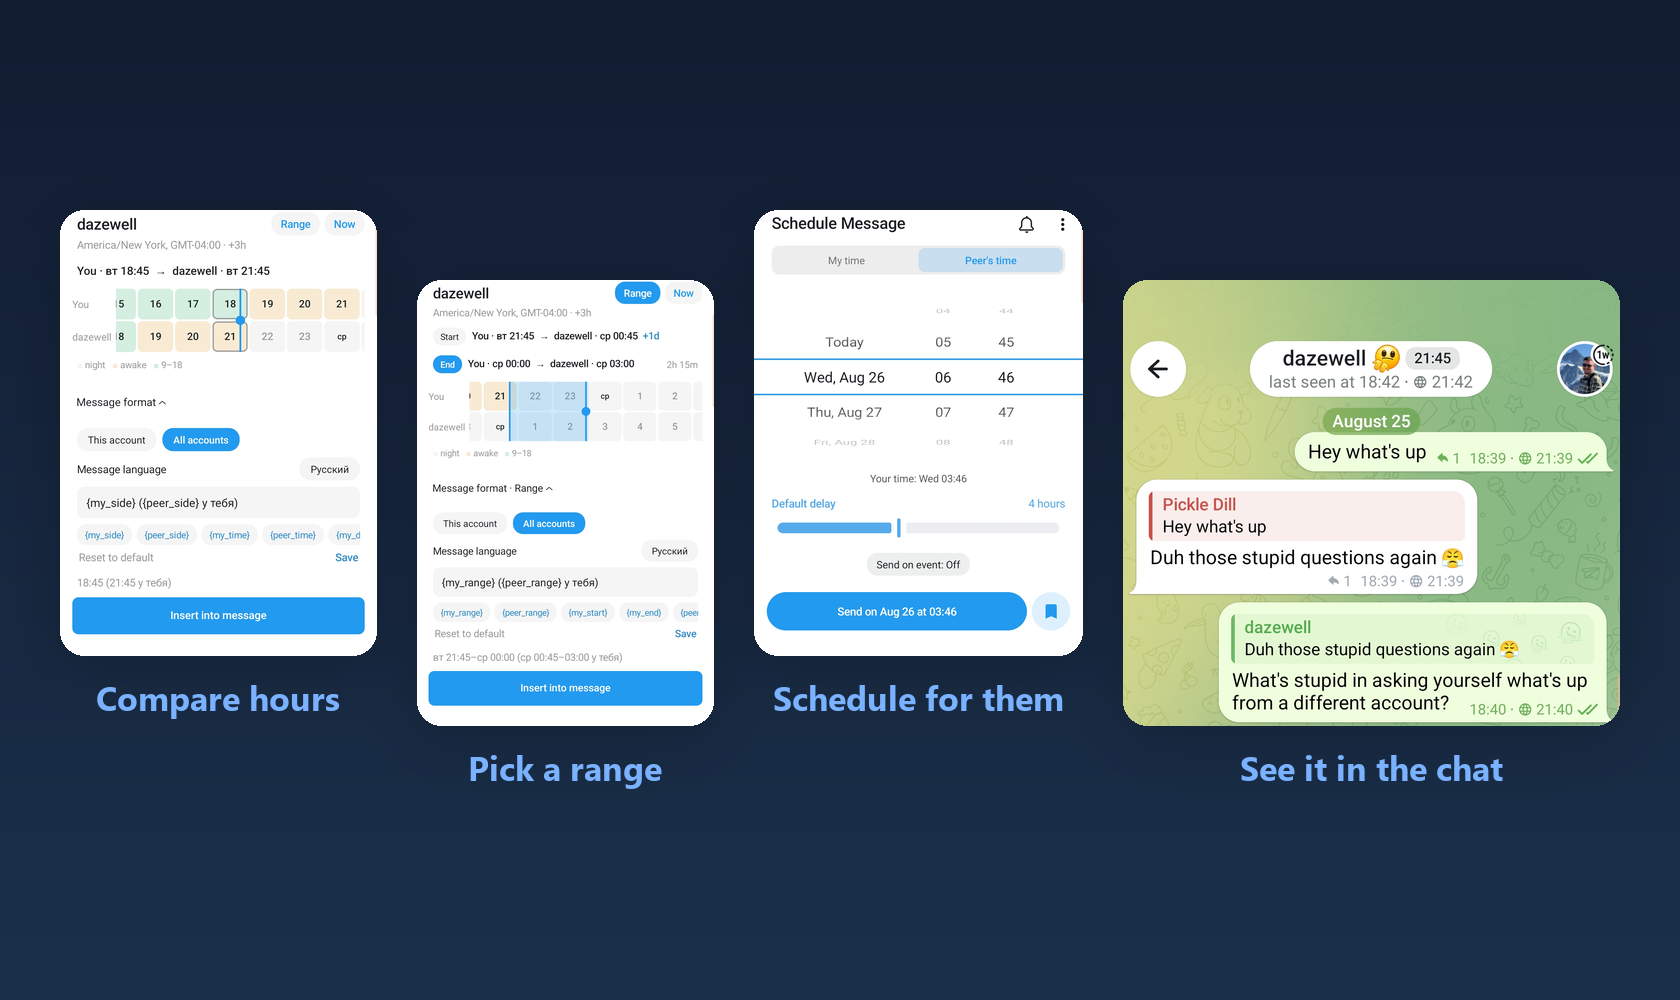
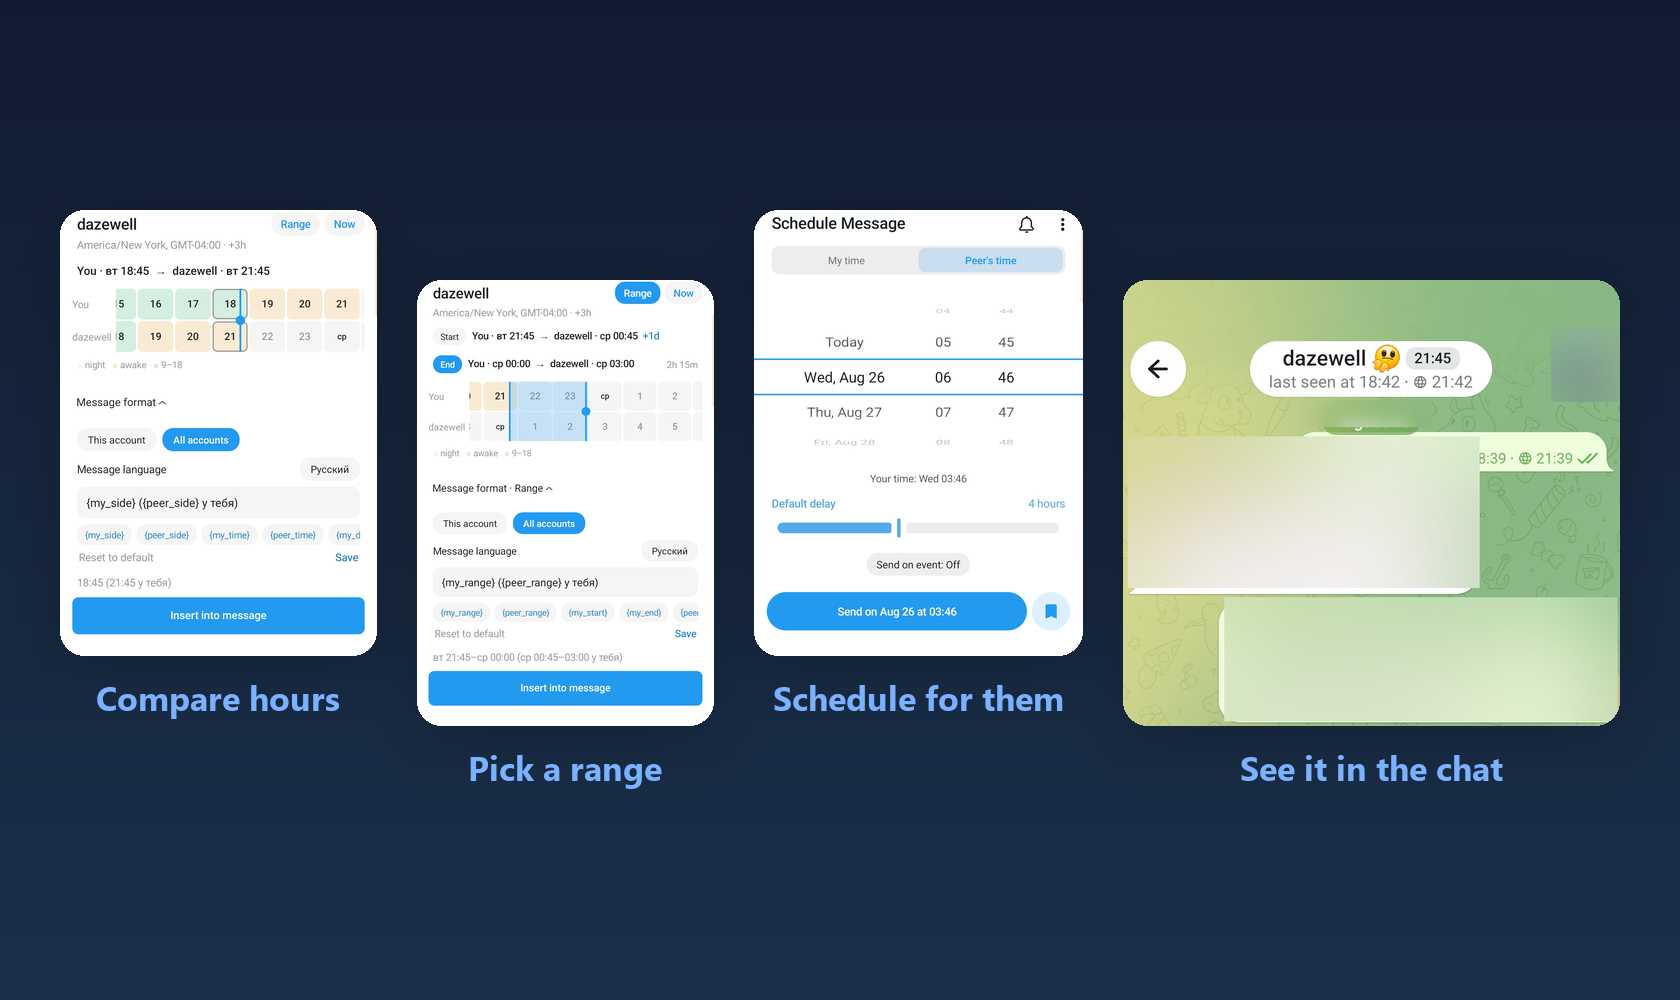
add a blur primitive and redact hero panel 4's real chat content #docs
hero.png's fourth panel cropped straight from the raw screenshot, so it
carried real display names, a real profile photo, and the full text of
real chat messages -- content the original hand-made hero.png had
deliberately blurred by hand. Add lur as a sibling to 
edact in the
manifest: it Gaussian-blurs one or more source-coordinate rectangles
before the crop is taken, radius scaled to the region so a small rect
still comes out genuinely unreadable rather than merely softened.
Factor the shared rect-bounds check used by crop/redact/blur into
_validate_rect() instead of duplicating it a third time.

Applied to panel 4's avatar and all three message bubbles; verified by
zooming into the rendered PNG that no name, message text, or the photo
is legible, while non-sensitive chrome (timestamps, delivery checks)
still reads, matching the original's treatment.

Changed region(s): [[0.65, 0.403, 0.9905, 0.744], [0.9286, 0.341, 0.9595, 0.403]]

diff --git a/Tools/scripts/compose_walls.py b/Tools/scripts/compose_walls.py
@@ -181,6 +181,19 @@ def rounded_mask(size: tuple[int, int], radius: int) -> Image.Image:
     return mask
 
 
+def _validate_rect(
+    rect: list[int], im_width: int, im_height: int, source: str, kind: str
+) -> tuple[int, int, int, int]:
+    left, top, right, bottom = rect
+    if not (0 <= left < right <= im_width and 0 <= top < bottom <= im_height):
+        raise SystemExit(
+            f"panel {source!r} has an invalid {kind} rect {rect} for a "
+            f"{im_width}x{im_height} source image; expected "
+            "0 <= left < right <= width and 0 <= top < bottom <= height"
+        )
+    return left, top, right, bottom
+
+
 def load_panel_image(
     panel: dict, screenshots_dir: Path
 ) -> Image.Image:
@@ -197,26 +210,28 @@ def load_panel_image(
     if redact_rects:
         draw = ImageDraw.Draw(im)
         for rect in redact_rects:
-            r_left, r_top, r_right, r_bottom = rect
-            if not (
-                0 <= r_left < r_right <= im.width
-                and 0 <= r_top < r_bottom <= im.height
-            ):
-                raise SystemExit(
-                    f"panel {panel['source']!r} has an invalid redact rect "
-                    f"{rect} for a {im.width}x{im.height} source image; "
-                    "expected 0 <= left < right <= width and "
-                    "0 <= top < bottom <= height"
-                )
-            draw.rectangle(rect, fill=(0, 0, 0))
+            r_left, r_top, r_right, r_bottom = _validate_rect(
+                rect, im.width, im.height, panel["source"], "redact"
+            )
+            draw.rectangle((r_left, r_top, r_right, r_bottom), fill=(0, 0, 0))
 
-    left, top, right, bottom = panel["crop"]
-    if not (0 <= left < right <= im.width and 0 <= top < bottom <= im.height):
-        raise SystemExit(
-            f"panel {panel['source']!r} has an invalid crop {panel['crop']} "
-            f"for a {im.width}x{im.height} source image; expected "
-            "0 <= left < right <= width and 0 <= top < bottom <= height"
+    # `blur` obscures a region while keeping its shape/color roughly
+    # legible -- for content that should read as "there but not published"
+    # (e.g. a real name or message body) rather than an outright block like
+    # `redact`. The radius scales with the rect's shorter side so a small
+    # rect still comes out genuinely unreadable, not merely softened.
+    for rect in panel.get("blur", []):
+        b_left, b_top, b_right, b_bottom = _validate_rect(
+            rect, im.width, im.height, panel["source"], "blur"
         )
+        region = im.crop((b_left, b_top, b_right, b_bottom))
+        radius = max(18, min(region.width, region.height) // 3)
+        region = region.filter(ImageFilter.GaussianBlur(radius))
+        im.paste(region, (b_left, b_top))
+
+    left, top, right, bottom = _validate_rect(
+        panel["crop"], im.width, im.height, panel["source"], "crop"
+    )
     return im.crop((left, top, right, bottom))
 
 
